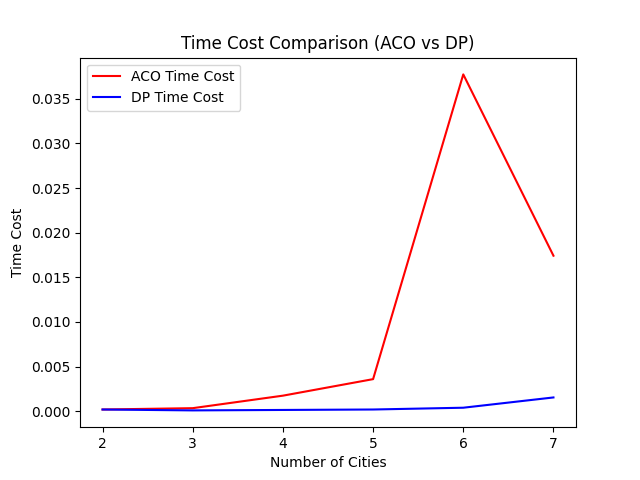
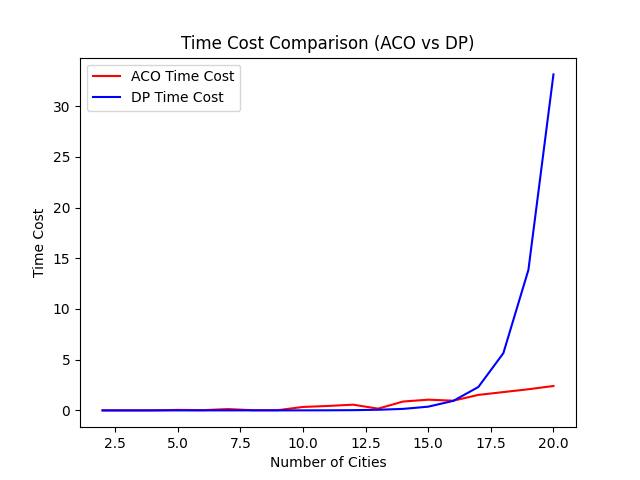
update

diff --git a/AI_code/main.py b/AI_code/main.py
@@ -105,26 +105,26 @@ if __name__ == '__main__':
     # #answer: 1232
     # #[0, 6, 14, 2, 10, 5, 4, 9, 15, 16, 17, 19, 11, 7, 13, 3, 1, 18, 8, 12, 0]
 
-    start_city = 0
-    num_coordinate = 17
-    coordinates = coordinate.generate_coordinates(num_coordinate)
+    # start_city = 0
+    # num_coordinate = 17
+    # coordinates = coordinate.generate_coordinates(num_coordinate)
 
-    alpha = 1
-    beta = 1
-    evaporation_rate = 0.3
-    quality_factor = 1
-    iterations = 1000
+    # alpha = 1
+    # beta = 1
+    # evaporation_rate = 0.3
+    # quality_factor = 1
+    # iterations = 1000
 
-    min_cost, best_path = aco.ant_colony_optimization(alpha, beta, evaporation_rate, quality_factor, iterations, start_city, coordinates)
-    print('TSP using ACO result:')
-    print("Min cost :", min_cost)
-    print("Best path :", best_path)
-    coordinate.draw_cities_best_path('Ant Colony Optimization', start_city, min_cost, best_path, coordinates)
+    # min_cost, best_path = aco.ant_colony_optimization(alpha, beta, evaporation_rate, quality_factor, iterations, start_city, coordinates)
+    # print('TSP using ACO result:')
+    # print("Min cost :", min_cost)
+    # print("Best path :", best_path)
+    # coordinate.draw_cities_best_path('Ant Colony Optimization', start_city, min_cost, best_path, coordinates)
 
-    min_cost = dp.dynamic_programming(start_city, coordinates)
-    print('TSP using Dynamic Programming result:')
-    print("Min cost :", min_cost)
-    print("Best path :", best_path)
-    coordinate.draw_cities_best_path('Dynamic Programming', start_city, min_cost, best_path, coordinates)
+    # min_cost = dp.dynamic_programming(start_city, coordinates)
+    # print('TSP using Dynamic Programming result:')
+    # print("Min cost :", min_cost)
+    # print("Best path :", best_path)
+    # coordinate.draw_cities_best_path('Dynamic Programming', start_city, min_cost, best_path, coordinates)
 
-    # compare.comparison_algorithm()
+    compare.comparison_algorithm()
